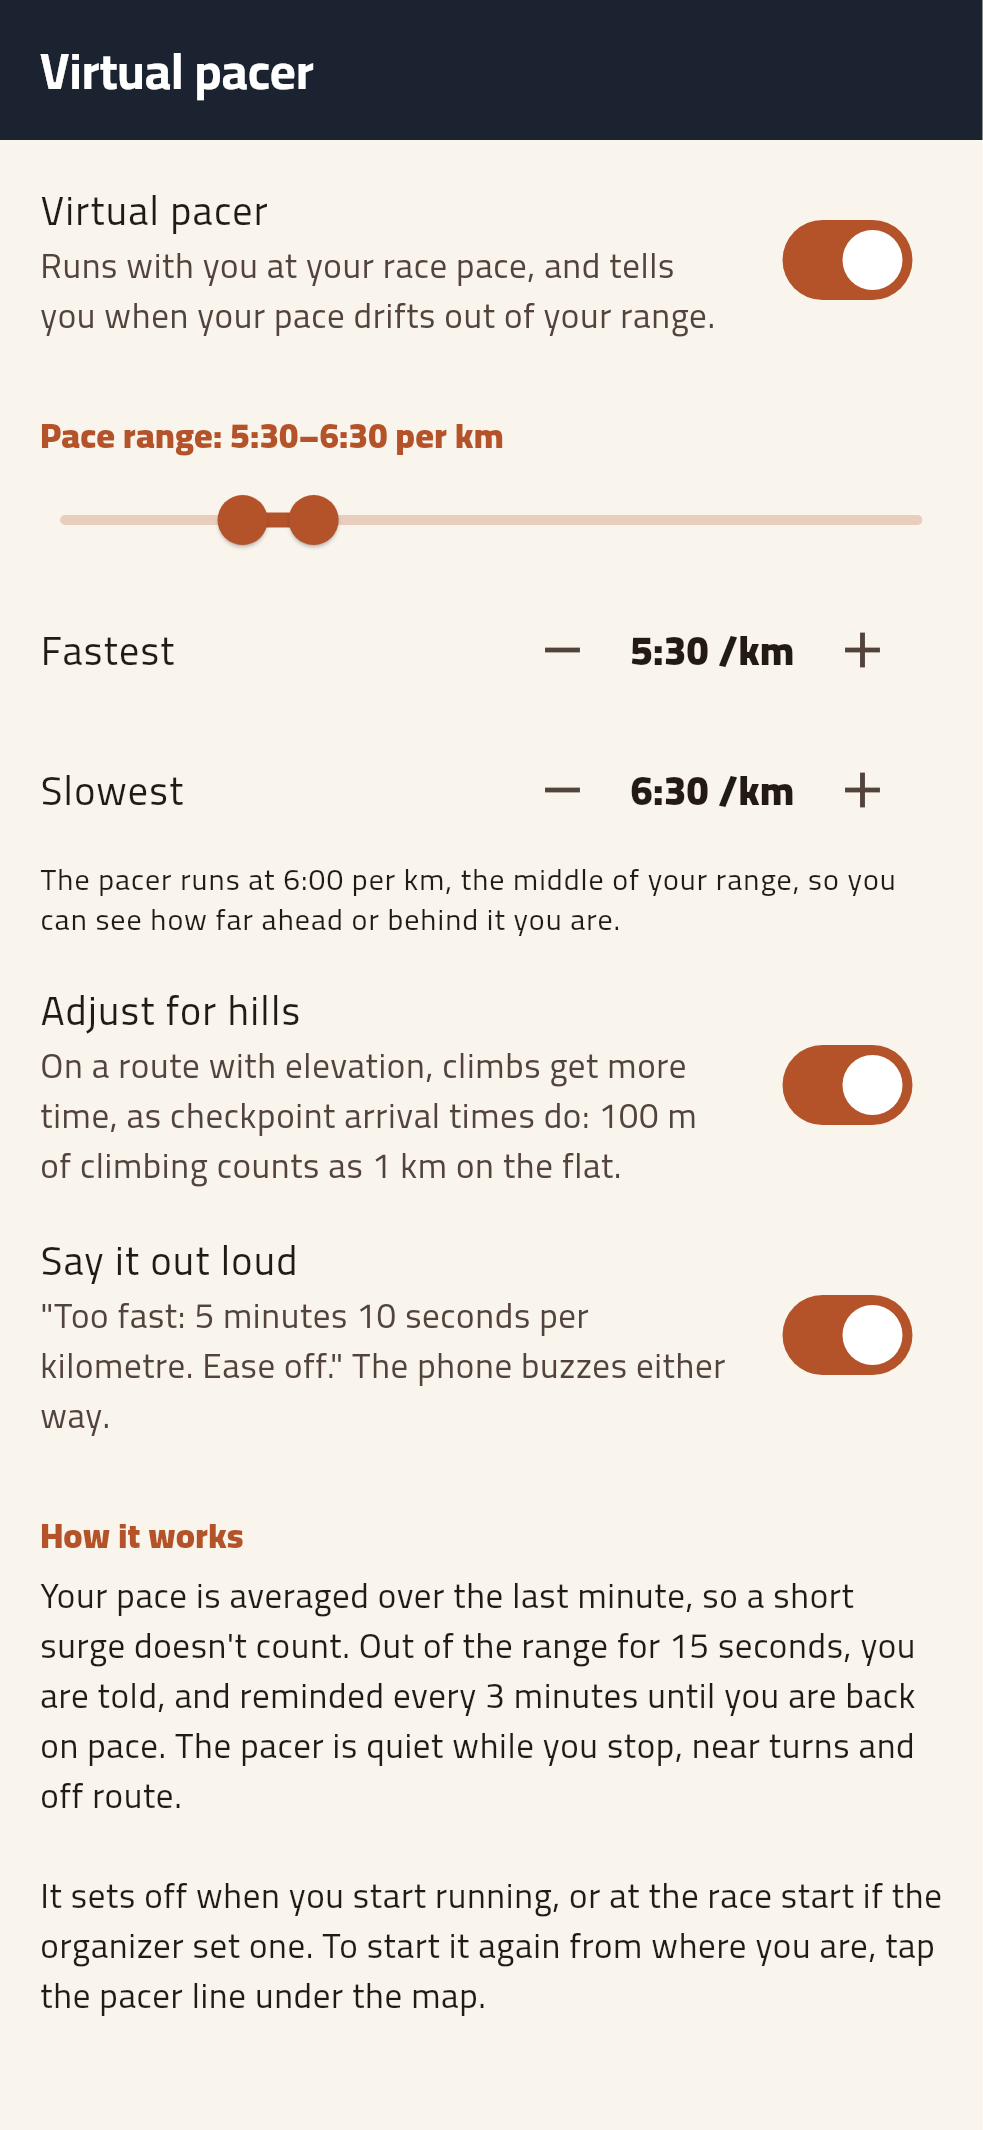
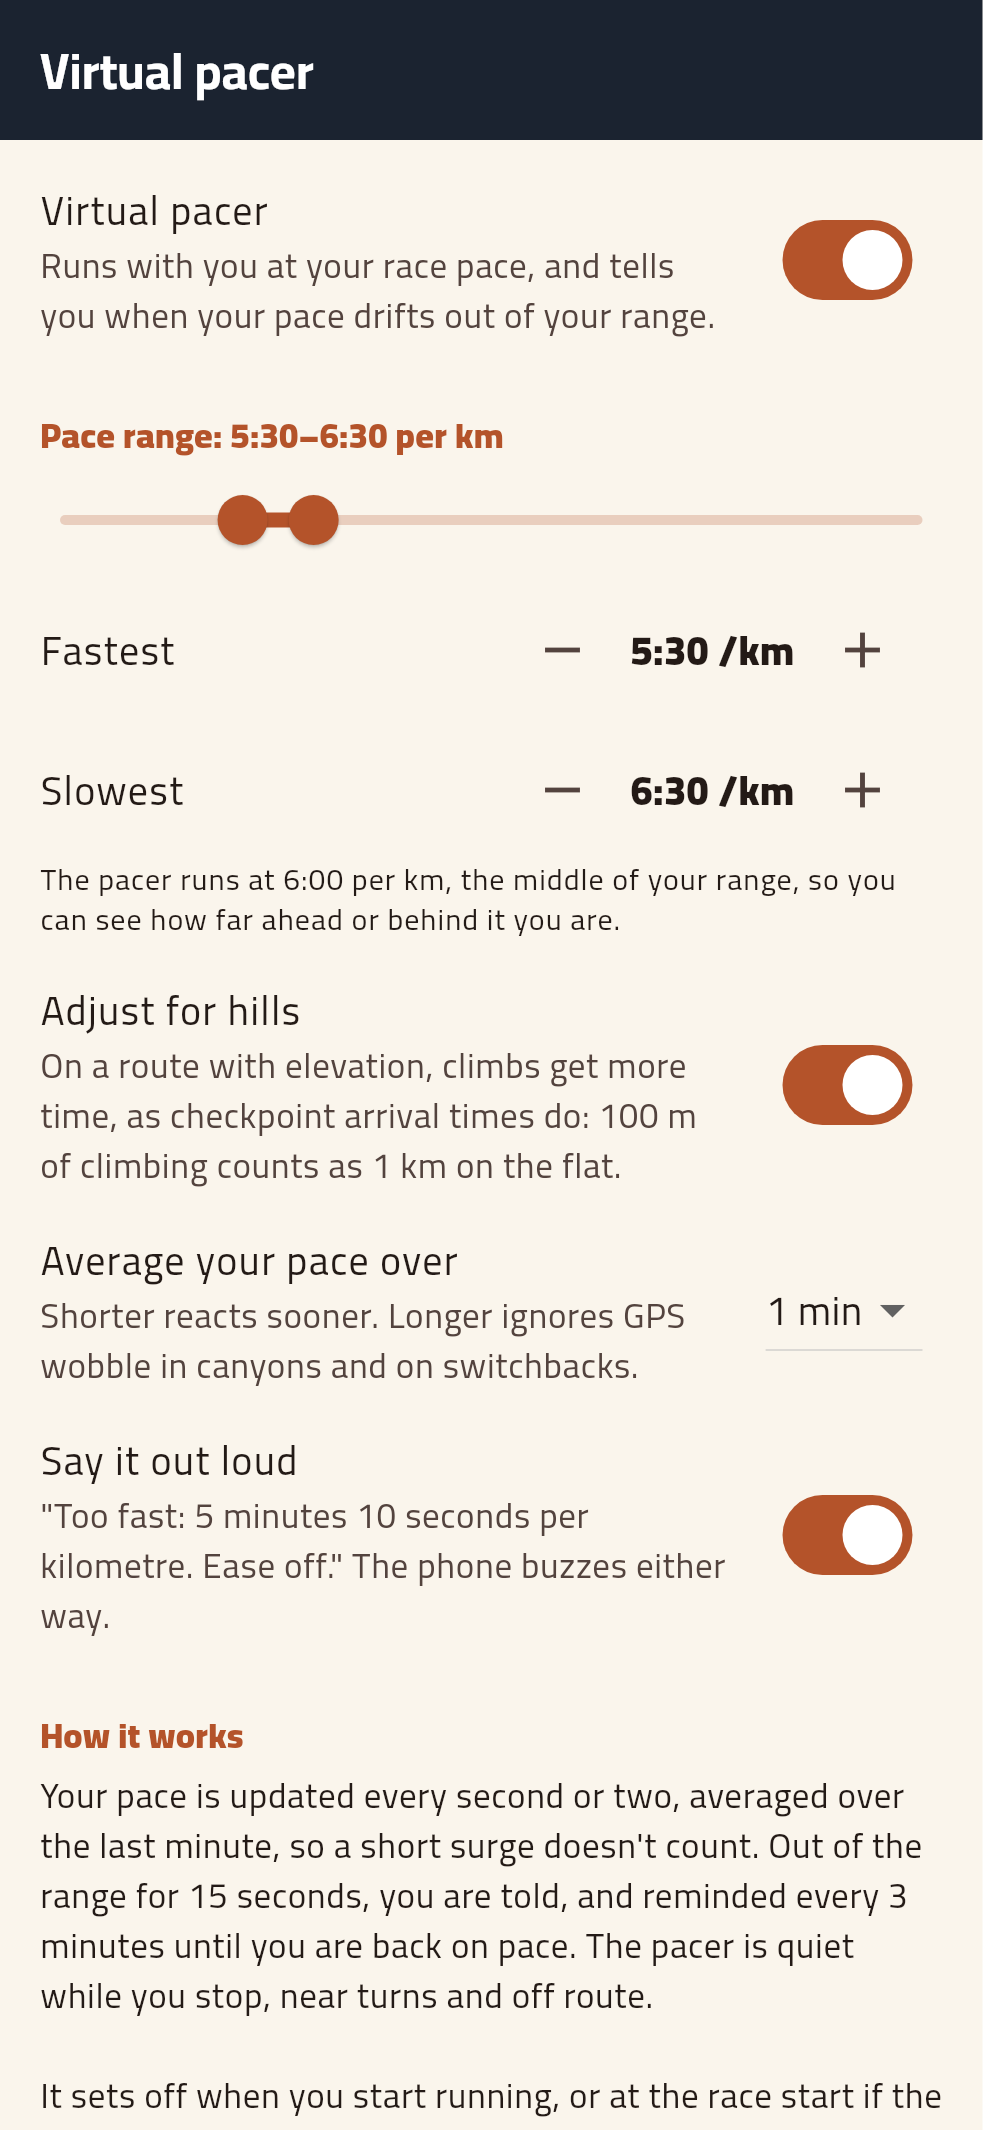
Let runners choose how long the pacer averages their pace
The pacer always averaged the pace over the last minute. The pacer
screen now has "Average your pace over": 15 s, 30 s, 1 min (still the
default) or 2 min. Shorter reacts sooner; longer ignores GPS wobble in
canyons and on switchbacks. From 6:30 in a 6:00–7:00 range, a move to
5:00–5:30 or 7:30–8:00 is announced after:

  15 s: 22–28 s   30 s: 28–38 s   1 min: 38–58 s   2 min: 60–100 s

- The pace is still read with every GPS fix (every second or two); only
  the averaging changes. The climb allowance is worked out over the same
  stretch.
- The first reading after starting or a stop comes after 20 s, or after
  the whole average when that is shorter (15 s).
- It can be changed mid-run and applies at once. It is saved with the
  rest of the plan; a value this version doesn't offer falls back to
  1 min.
- "How it works" now says how often the pace is updated and what it is
  averaged over, as does the pacer sheet. README too.

Tests: the setting is saved and checked; a 30 s average reaches a new
pace, and gives its cue, sooner than a minute's; a 15 s average counts
after 15 s; a change mid-run reaches the pacer; choosing it on the
pacer screen. One test now scrolls to "Say it out loud", which the new
row pushed down.

Claude-Session: https://claude.ai/code/session_01DARnNYzPvCZ1Mn1d6AQ6fi

diff --git a/lib/core/pacer.dart b/lib/core/pacer.dart
@@ -13,11 +13,16 @@ class PacerPlan {
     this.slowest = 420,
     this.hills = true,
     this.voice = true,
+    this.averageSeconds = 60,
   });
 
   /// Range limits: 3:00 to 15:00 per km.
   static const minPace = 180;
   static const maxPace = 900;
+
+  /// What [averageSeconds] can be: shorter reacts sooner, longer ignores
+  /// GPS wobble in canyons and on switchbacks.
+  static const averageOptions = [15, 30, 60, 120];
 
   final bool enabled;
 
@@ -33,6 +38,9 @@ class PacerPlan {
   /// Say cues out loud as well as buzzing.
   final bool voice;
 
+  /// The pace is averaged over this many seconds of running.
+  final int averageSeconds;
+
   /// The virtual runner's pace: the middle of the range.
   double get target => (fastest + slowest) / 2;
 
@@ -42,12 +50,14 @@ class PacerPlan {
     int? slowest,
     bool? hills,
     bool? voice,
+    int? averageSeconds,
   }) => PacerPlan(
     enabled: enabled ?? this.enabled,
     fastest: fastest ?? this.fastest,
     slowest: slowest ?? this.slowest,
     hills: hills ?? this.hills,
     voice: voice ?? this.voice,
+    averageSeconds: averageSeconds ?? this.averageSeconds,
   );
 
   Map<String, Object?> toJson() => {
@@ -56,6 +66,7 @@ class PacerPlan {
     'slow': slowest,
     'hills': hills,
     'voice': voice,
+    'avg': averageSeconds,
   };
 
   static PacerPlan fromJson(Map json) {
@@ -63,12 +74,14 @@ class PacerPlan {
         ((v as num?)?.round() ?? fallback).clamp(minPace, maxPace);
     final a = pace(json['fast'], 360);
     final b = pace(json['slow'], 420);
+    final average = (json['avg'] as num?)?.toInt();
     return PacerPlan(
       enabled: json['on'] as bool? ?? false,
       fastest: math.min(a, b),
       slowest: math.max(a, b),
       hills: json['hills'] as bool? ?? true,
       voice: json['voice'] as bool? ?? true,
+      averageSeconds: averageOptions.contains(average) ? average! : 60,
     );
   }
 }
@@ -152,9 +165,9 @@ class _Sample {
 /// Runs with you at your target pace and keeps an eye on yours.
 ///
 /// Feed it every GPS fix with [addFix]. It averages your pace over the last
-/// minute of running, compares it with the plan's range (allowing more time
-/// on climbs), and returns a [PacerCue] when you drift out of the range and
-/// when you are back in it. It also keeps a virtual runner going at the
+/// [window] of running, compares it with the plan's range (allowing more
+/// time on climbs), and returns a [PacerCue] when you drift out of the range
+/// and when you are back in it. It also keeps a virtual runner going at the
 /// middle of the range, from when you start running, so you can see how far
 /// ahead or behind it you are.
 ///
@@ -165,11 +178,14 @@ class VirtualPacer {
 
   PacerPlan plan;
 
-  /// The pace is averaged over this much running.
-  static const window = Duration(seconds: 60);
+  /// The pace is averaged over this much running: the plan's
+  /// [PacerPlan.averageSeconds].
+  Duration get window => Duration(seconds: plan.averageSeconds);
 
-  /// Running needed before the pace counts, after starting or a stop.
-  static const settle = Duration(seconds: 20);
+  /// Running needed before the pace counts, after starting or a stop: 20 s,
+  /// or the whole [window] when that is shorter.
+  Duration get settle => window < _settle ? window : _settle;
+  static const _settle = Duration(seconds: 20);
 
   /// No movement for this long is a stop: the pacer goes quiet.
   static const stopAfter = Duration(seconds: 10);
@@ -243,8 +259,8 @@ class VirtualPacer {
     _reset();
   }
 
-  /// Your pace (s/km), averaged over the last minute of running. Null until
-  /// you have been running for a moment, and while you stop.
+  /// Your pace (s/km), averaged over the last [window] of running. Null
+  /// until you have been running for a moment, and while you stop.
   double? get pace => _pace;
 
   /// Whether you were running and have stopped.

diff --git a/test/core/pacer_test.dart b/test/core/pacer_test.dart
@@ -97,6 +97,16 @@ void main() {
     });
   });
 
+  test('averages over a minute unless set otherwise', () {
+    expect(const PacerPlan().averageSeconds, 60);
+    final plan = PacerPlan.fromJson(
+      const PacerPlan(averageSeconds: 30).toJson(),
+    );
+    expect(plan.averageSeconds, 30);
+    // A value this version doesn't offer.
+    expect(PacerPlan.fromJson(const {'avg': 45}).averageSeconds, 60);
+  });
+
   test('paces are shown as m:ss and said in words', () {
     expect(formatPace(330), '5:30');
     expect(formatPace(359.6), '6:00');
@@ -129,6 +139,32 @@ void main() {
       expect(r.pacer.pace, inExclusiveRange(300, 390));
       r.run(300, 40);
       expect(r.pacer.pace, closeTo(300, 0.5));
+    });
+
+    test('a shorter average reacts sooner', () {
+      final quick = _Runner(
+        VirtualPacer(plan: _plan.copyWith(averageSeconds: 30)),
+      )..run(390, 60);
+      final steady = _Runner(VirtualPacer(plan: _plan))..run(390, 60);
+      // Half a minute at 5:00: all of a 30 s average, half of a minute's.
+      quick.run(300, 32);
+      steady.run(300, 32);
+      expect(quick.pacer.window, const Duration(seconds: 30));
+      expect(quick.pacer.pace, closeTo(300, 0.5));
+      expect(steady.pacer.pace, inExclusiveRange(320, 360));
+    });
+
+    test('a 15 s average counts after 15 s rather than 20', () {
+      final quick = _Runner(
+        VirtualPacer(plan: _plan.copyWith(averageSeconds: 15)),
+      );
+      final steady = _Runner(VirtualPacer(plan: _plan));
+      quick.run(390, 14);
+      expect(quick.pacer.pace, isNull);
+      quick.run(390, 4);
+      steady.run(390, 18);
+      expect(quick.pacer.pace, closeTo(390, 0.5));
+      expect(steady.pacer.pace, isNull);
     });
 
     test('stops and starts afresh after standing still', () {
@@ -201,6 +237,17 @@ void main() {
       expect(r.heard, ['Too slow', 'Back on pace']);
       r.run(390, 300);
       expect(r.heard, ['Too slow', 'Back on pace']);
+    });
+
+    test('a shorter average tells you sooner', () {
+      final quick = _Runner(
+        VirtualPacer(plan: _plan.copyWith(averageSeconds: 30)),
+      )..run(390, 60);
+      final steady = _Runner(VirtualPacer(plan: _plan))..run(390, 60);
+      quick.run(480, 34);
+      steady.run(480, 34);
+      expect(quick.heard, ['Too slow']);
+      expect(steady.heard, isEmpty, reason: 'only just out of the range');
     });
 
     test('a short surge says nothing', () {

diff --git a/lib/ui/pacer_plan_screen.dart b/lib/ui/pacer_plan_screen.dart
@@ -88,6 +88,23 @@ class PacerPlanScreen extends StatelessWidget {
                 value: plan.hills,
                 onChanged: (v) => update(plan.copyWith(hills: v)),
               ),
+              ListTile(
+                title: const Text('Average your pace over'),
+                subtitle: const Text(
+                  'Shorter reacts sooner. Longer ignores GPS wobble in '
+                  'canyons and on switchbacks.',
+                ),
+                trailing: DropdownButton<int>(
+                  value: plan.averageSeconds,
+                  items: [
+                    for (final s in PacerPlan.averageOptions)
+                      DropdownMenuItem(value: s, child: Text(averageLabel(s))),
+                  ],
+                  onChanged: (v) {
+                    if (v != null) update(plan.copyWith(averageSeconds: v));
+                  },
+                ),
+              ),
               SwitchListTile(
                 title: const Text('Say it out loud'),
                 subtitle: const Text(
@@ -101,8 +118,9 @@ class PacerPlanScreen extends StatelessWidget {
               Padding(
                 padding: const EdgeInsets.fromLTRB(16, 4, 16, 24),
                 child: Text(
-                  'Your pace is averaged over the last minute, so a short '
-                  'surge doesn\'t count. Out of the range for 15 seconds, '
+                  'Your pace is updated every second or two, averaged over '
+                  '${averagePhrase(plan.averageSeconds)}, so a short surge '
+                  'doesn\'t count. Out of the range for 15 seconds, '
                   'you are told, and reminded every 3 minutes until you are '
                   'back on pace. The pacer is quiet while you stop, near '
                   'turns and off route.\n\n'
@@ -126,6 +144,17 @@ String describePacer(PacerPlan plan) {
   return '${formatPace(plan.fastest)}–${formatPace(plan.slowest)} per km'
       '${plan.voice ? ' · voice cues' : ''}';
 }
+
+/// "30 s", "1 min".
+String averageLabel(int seconds) =>
+    seconds < 60 ? '$seconds s' : '${seconds ~/ 60} min';
+
+/// "the last 30 seconds", "the last minute", "the last 2 minutes".
+String averagePhrase(int seconds) => switch (seconds) {
+  < 60 => 'the last $seconds seconds',
+  60 => 'the last minute',
+  _ => 'the last ${seconds ~/ 60} minutes',
+};
 
 /// Seconds per km between steps.
 const _step = 5;

diff --git a/test/ui/pacer_test.dart b/test/ui/pacer_test.dart
@@ -71,7 +71,10 @@ void main() {
     expect(settings.pacerPlan.slowest, 410);
     expect(find.text('Pace range: 6:05–6:50 per km'), findsOneWidget);
 
-    await tester.tap(find.widgetWithText(SwitchListTile, 'Say it out loud'));
+    final voice = find.widgetWithText(SwitchListTile, 'Say it out loud');
+    await tester.ensureVisible(voice);
+    await tester.pump();
+    await tester.tap(voice);
     await tester.pump();
     expect(settings.pacerPlan.voice, isFalse);
 
@@ -91,6 +94,37 @@ void main() {
       find.widgetWithIcon(IconButton, Icons.add).first,
     );
     expect(slower.onPressed, isNull, reason: 'fastest is at slowest');
+  });
+
+  testWidgets('choose how long the pace is averaged over', (tester) async {
+    settings = (await tester.runAsync(AppSettings.load))!
+      ..pacerPlan = const PacerPlan(enabled: true);
+    await show(tester, const PacerPlanScreen());
+    // "How it works" says how long, at the bottom of the screen.
+    final howItWorks = find.textContaining('averaged over the last');
+    Future<void> readHowItWorks() => tester.scrollUntilVisible(
+      howItWorks,
+      100,
+      scrollable: find.byType(Scrollable).first,
+    );
+    await readHowItWorks();
+    expect(
+      find.textContaining('averaged over the last minute'),
+      findsOneWidget,
+    );
+
+    await tester.ensureVisible(find.text('1 min'));
+    await tester.pump();
+    await tester.tap(find.text('1 min'));
+    await tester.pumpAndSettle();
+    await tester.tap(find.text('30 s').last);
+    await tester.pumpAndSettle();
+    expect(settings.pacerPlan.averageSeconds, 30);
+    await readHowItWorks();
+    expect(
+      find.textContaining('averaged over the last 30 seconds'),
+      findsOneWidget,
+    );
   });
 
   testWidgets('settings shows it under Pacing', (tester) async {

diff --git a/test/state/pacer_session_test.dart b/test/state/pacer_session_test.dart
@@ -104,8 +104,13 @@ void main() {
       await run(390, 20);
       expect(s.pacer!.pace, closeTo(390, 1));
 
-      settings.pacerPlan = _plan.copyWith(fastest: 300, slowest: 330);
+      settings.pacerPlan = _plan.copyWith(
+        fastest: 300,
+        slowest: 330,
+        averageSeconds: 30,
+      );
       expect(s.pacer!.range, (300, 330));
+      expect(s.pacer!.window, const Duration(seconds: 30));
 
       settings.pacerPlan = _plan.copyWith(enabled: false);
       expect(s.pacer, isNull);

diff --git a/lib/ui/pacer_sheet.dart b/lib/ui/pacer_sheet.dart
@@ -137,7 +137,7 @@ class _PacerSheet extends StatelessWidget {
             _PaceGauge(pace: pace, fastest: lo, slowest: hi, color: color),
             const SizedBox(height: 8),
             Text(
-              'Your pace over the last minute. Range '
+              'Your pace over ${averagePhrase(plan.averageSeconds)}. Range '
               '${pacerRange(pacer)} /km.',
               style: theme.textTheme.bodyMedium,
             ),

diff --git a/lib/ui/run_screen.dart b/lib/ui/run_screen.dart
@@ -1238,7 +1238,7 @@ class _StatsPanel extends StatelessWidget {
         ? Duration.zero
         : DateTime.now().difference(s.startedAt!);
     final speed = s.fix?.speed ?? 0;
-    // The pacer's pace is steadier: the last minute's.
+    // The pacer's pace is steadier: averaged over its window.
     final steady = s.pacer?.pace;
     final pace = steady != null
         ? formatPace(steady)

diff --git a/README.md b/README.md
@@ -82,11 +82,12 @@ the map background is blank. On a phone you see the map layers you picked.)*
   for 15 seconds and the phone buzzes and tells you ("Too slow: 7 minutes 5
   seconds per kilometre. Pick it up."), even with the screen off, then
   reminds you every 3 minutes until you're back on pace. Your pace is
-  averaged over the last minute, so overtaking someone doesn't set it off,
-  and the pacer keeps quiet while you stop, near turns and off route. On a
-  route with elevation, climbs get more time (km-effort). The pacer sets off
-  when you start running, or at the race start if the organizer set one; tap
-  the pacer line to restart it from where you are.
+  averaged over the last minute (or 15 s to 2 min, as you choose), so
+  overtaking someone doesn't set it off, and the pacer keeps quiet while you
+  stop, near turns and off route. On a route with elevation, climbs get more
+  time (km-effort). The pacer sets off when you start running, or at the race
+  start if the organizer set one; tap the pacer line to restart it from where
+  you are.
 - **Fuelling reminders.** Set a carb target (e.g. 60 g per hour) and a fluid
   target, and list what you carry: gels, chews, dates, drinks, with the carbs
   from their labels. A chime plays when it's time, saying how much and
